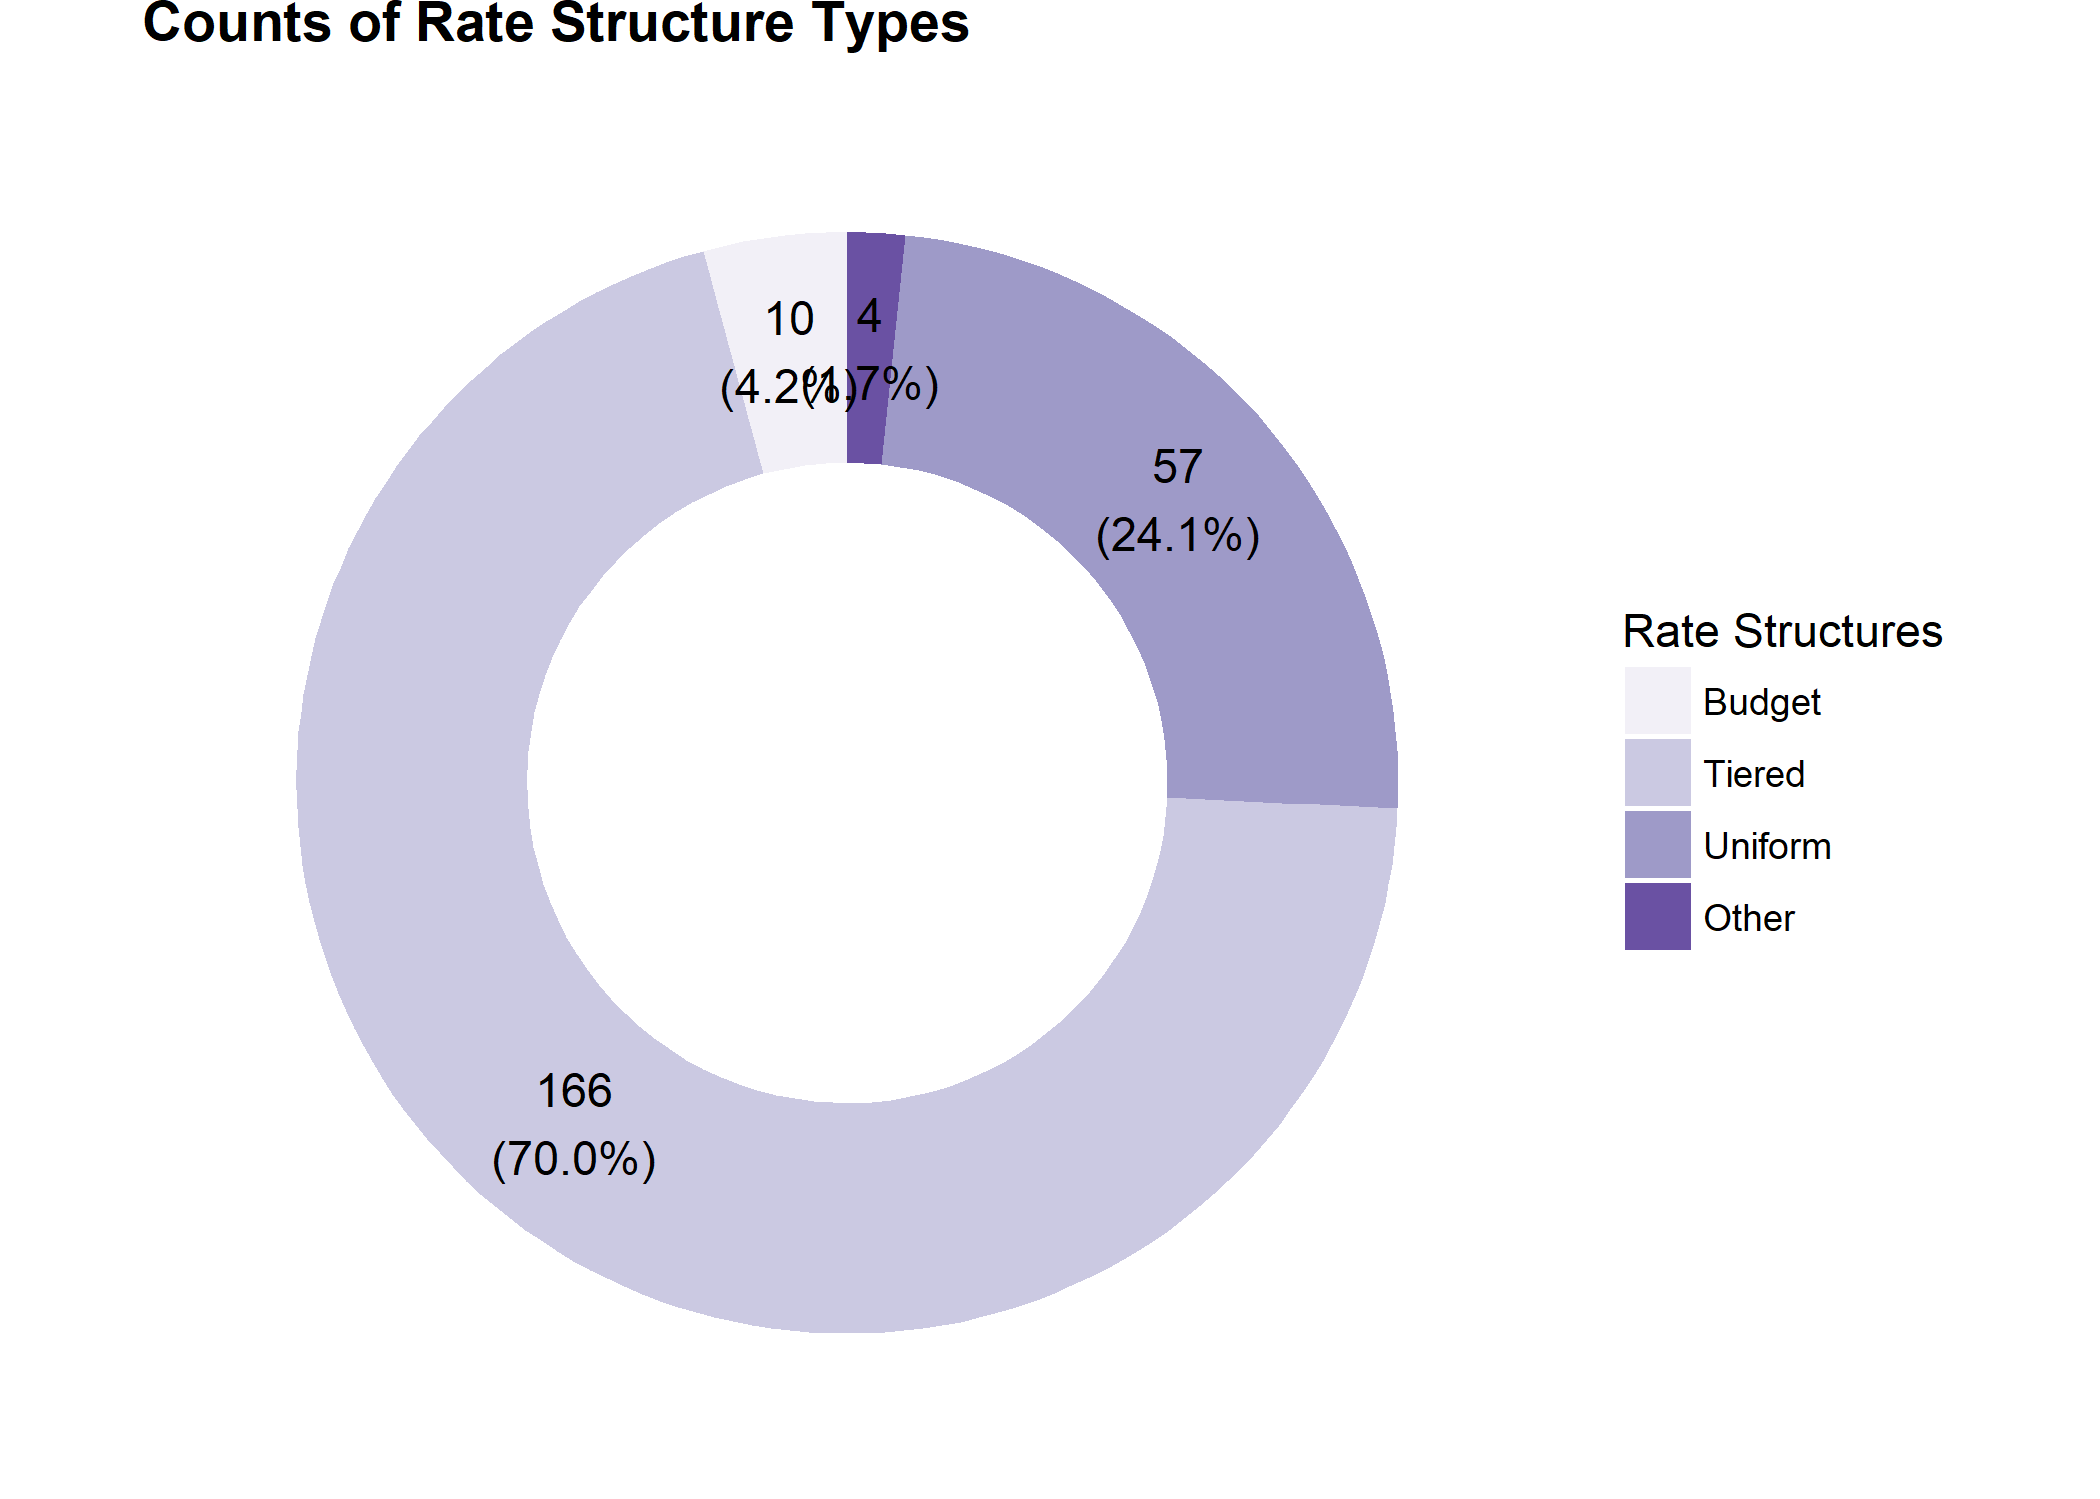
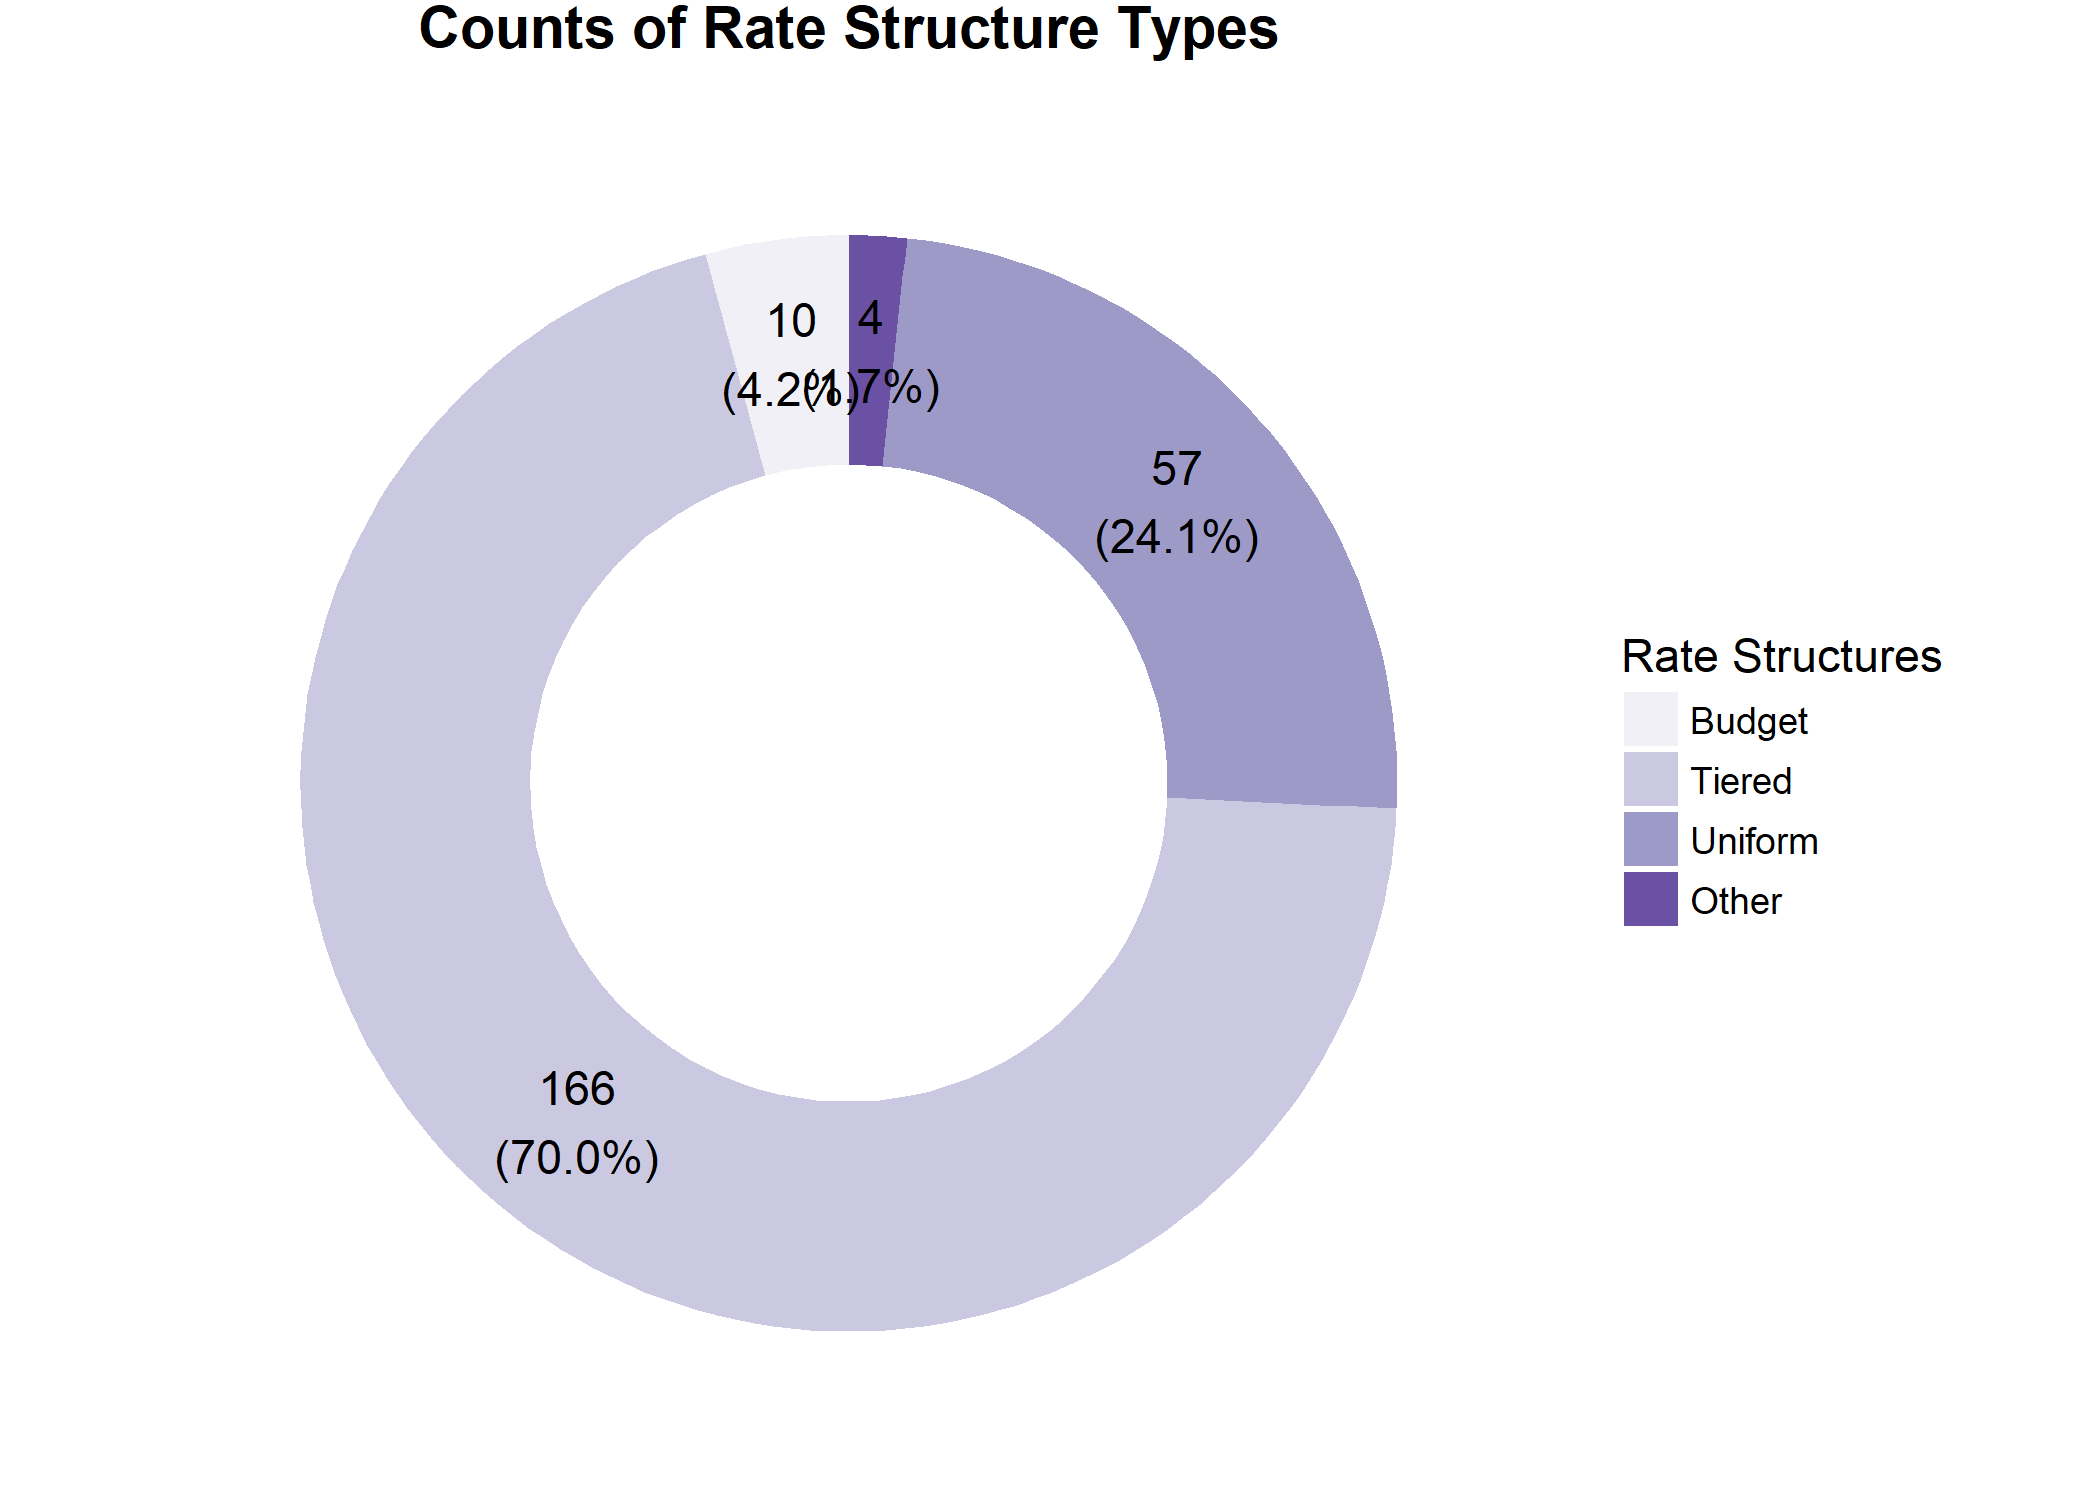
updated charts with region analysis

diff --git a/owrs_analysis.md b/owrs_analysis.md
@@ -31,15 +31,6 @@ This report provides the combined analysis of data from 4 different sources:
 
 
 
-```r
-df_past_years$utility_name_raftelis <- sapply(df_past_years$Water.Service.Provider, preprocess_raftelis_name) 
-df_past_years <- assign_fuzzy_match_names(df_past_years, 
-                                          source_column_name = "utility_name_raftelis",
-                                          new_name_column = "utility_name_owrs",
-                                          names_to_match_with = df_final_bill_single$utility_name,
-                                          manual_map = NULL,
-                                          cutoff = 0.85)
-```
 
 
 
@@ -63,6 +54,9 @@ This section discusses general characteristics of the rates for utilities analyz
 <img src="img/rate_structure_type_pie.png" width="600px" />
 
 
+<img src="img/usage_histogram.png" width="600px" />
+
+Testing a different plot theme:
 
 <img src="img/service_charge_ratio_histogram.png" width="600px" />
 
@@ -71,6 +65,10 @@ This section discusses general characteristics of the rates for utilities analyz
 # Variation in Bills at Different Use Levels
 
 <img src="img/commodity_charge_vs_usage_line.png" width="600px" />
+
+
+<img src="img/bill_quantiles_vs_usage.png" width="600px" />
+
 
 
 
@@ -94,6 +92,16 @@ Load suppliers report info and join with the Utilities list from the OWRS files
 
 <img src="img/gpcd_time_series_boxplot.png" width="600px" />
 ## Compare Rates and efficiency
+
+
+
+
+
+<img src="img/boxplot_bill_by_region.png" width="600px" />
+
+
+<img src="img/average_bill_part_by_region.png" width="600px" />
+
 
 
 Scatter plot of Efficiency (pct_above_target) vs Rates (Total Bill for 15 CCF)
